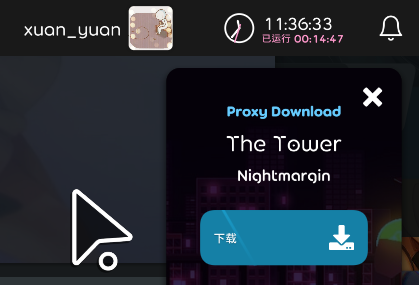
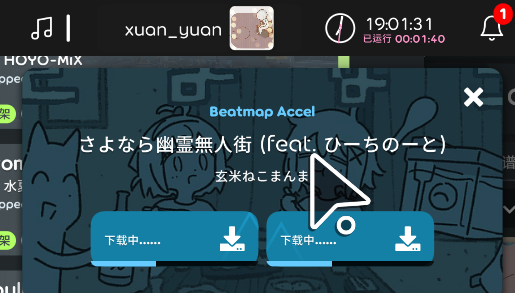
README.md

diff --git a/README.md b/README.md
@@ -1,6 +1,6 @@
 # BeatmapAccel
 
-`BeatmapAccel` 是一个面向 `osu!lazer` 的谱面下载加速 ruleset。
+`BeatmapAccel` 是一个面向 `osu!lazer` 的谱面下载加速 ruleset。（Vibe Coding）
 
 它的目标很明确：
 
@@ -180,6 +180,8 @@ dotnet build .\osu.Game.Rulesets.BeatmapAccel\osu.Game.Rulesets.BeatmapAccel.csp
 ## 说明
 
 这个项目更偏实用型实验插件，不是对 `osu!lazer` 下载系统的官方替代实现。
+
+谱面预览，弹出下载按钮参照了[LLin](https://github.com/MATRIX-feather/LLin)。
 
 如果你只想要稳定可用的“下载加速”，建议优先使用预览弹窗模式。
 如果你想覆盖更多下载入口，再考虑开启全局接管模式。
